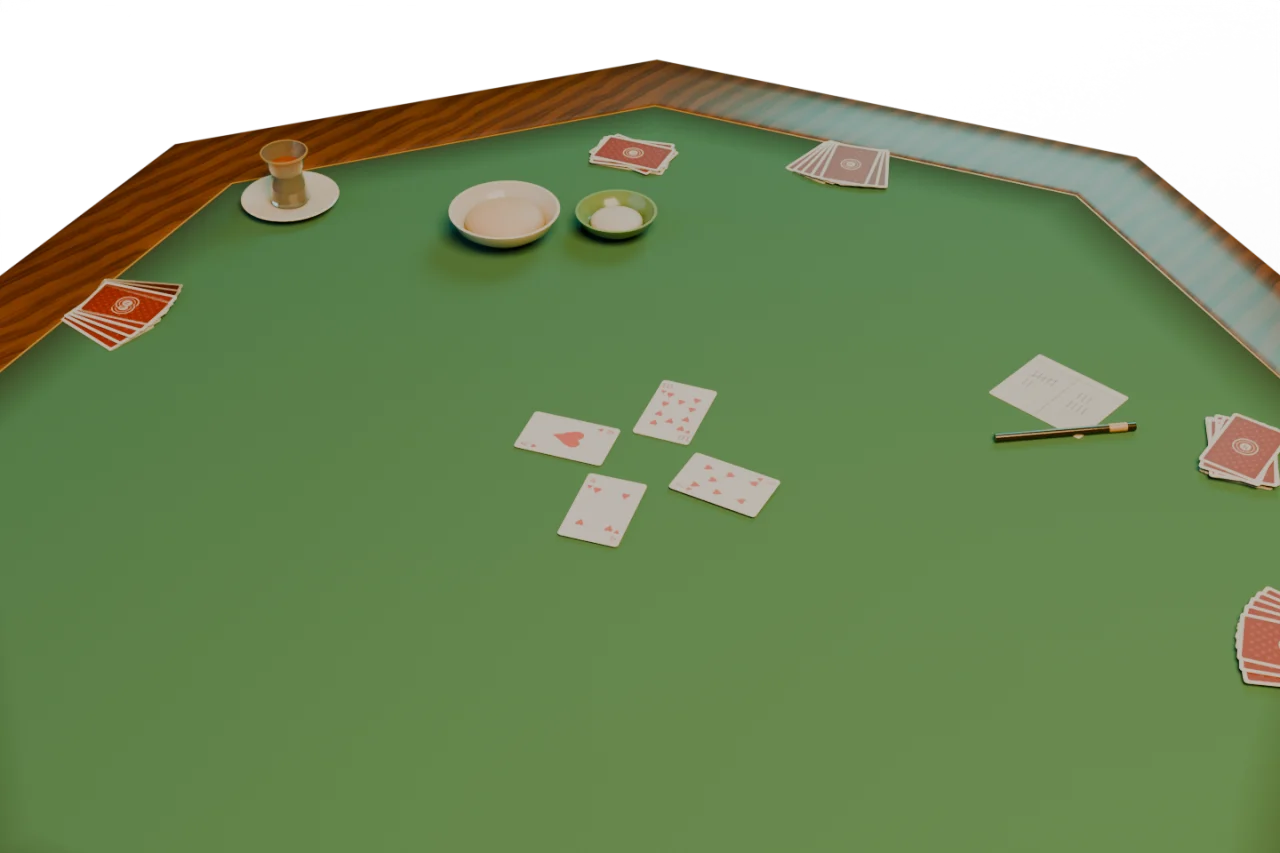
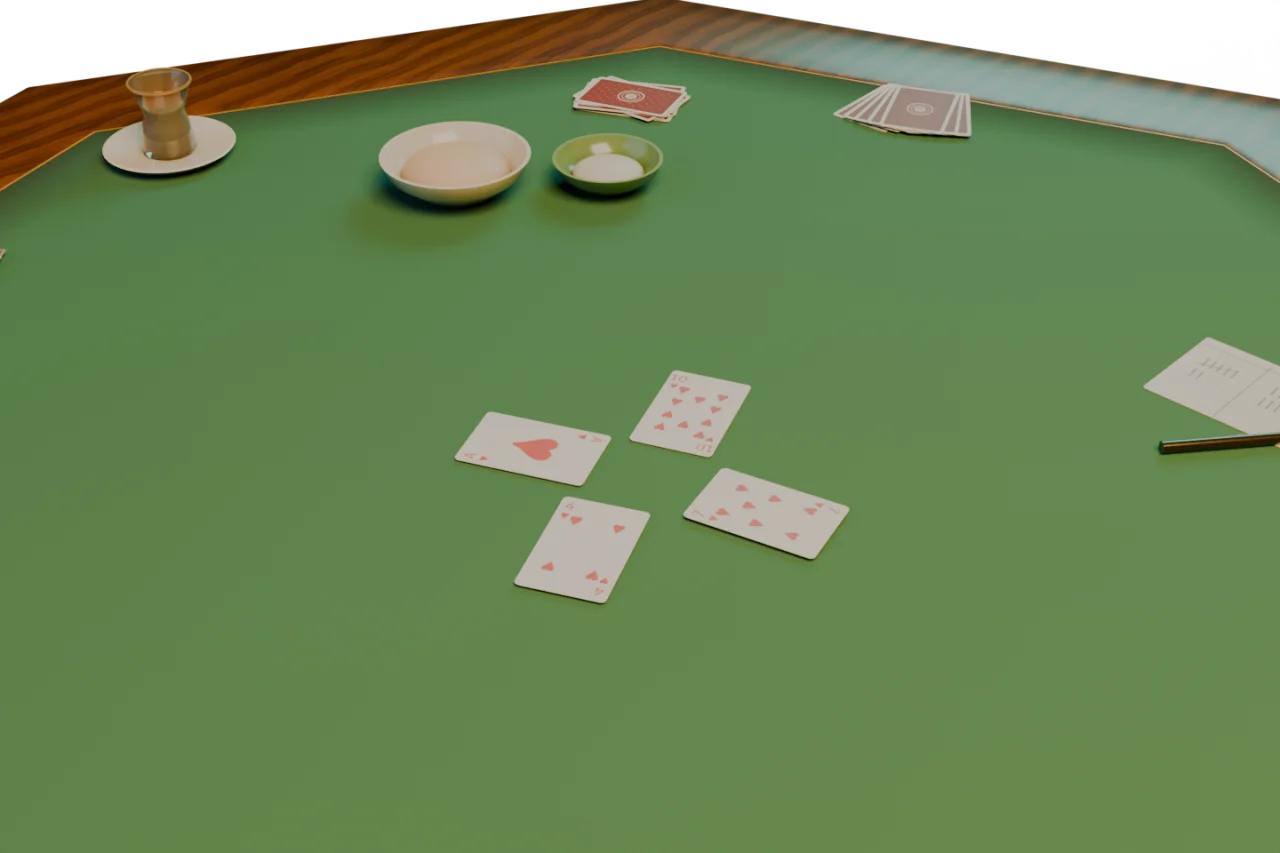
art(hokm): bring the camera down to the trick so the card carries its weight beside the others

Changed region(s): [[0.0, 0.0, 1.0, 0.5791], [0.3438, 0.4267, 0.6875, 0.7315], [0.9375, 0.6706, 1.0, 0.823]]

diff --git a/tools/blender/art.py b/tools/blender/art.py
@@ -14,7 +14,7 @@ ART = os.path.abspath(os.path.join(HERE, '..', '..', 'application', 'public', 'a
 ONLY = os.environ.get('NURA_ART')
 
 GAMES = {
-    'hokm': ('table-card', 1.25, 1.0, 0.42),
+    'hokm': ('table-card', 0.88, 0.62, 0.42),
     'poker': ('table-poker', 1.35, 1.05, 0.35),
     'backgammon': ('table-board', 0.95, 0.78, 0.5),
     'ludo': ('table-board', 0.9, 0.75, 0.5)
